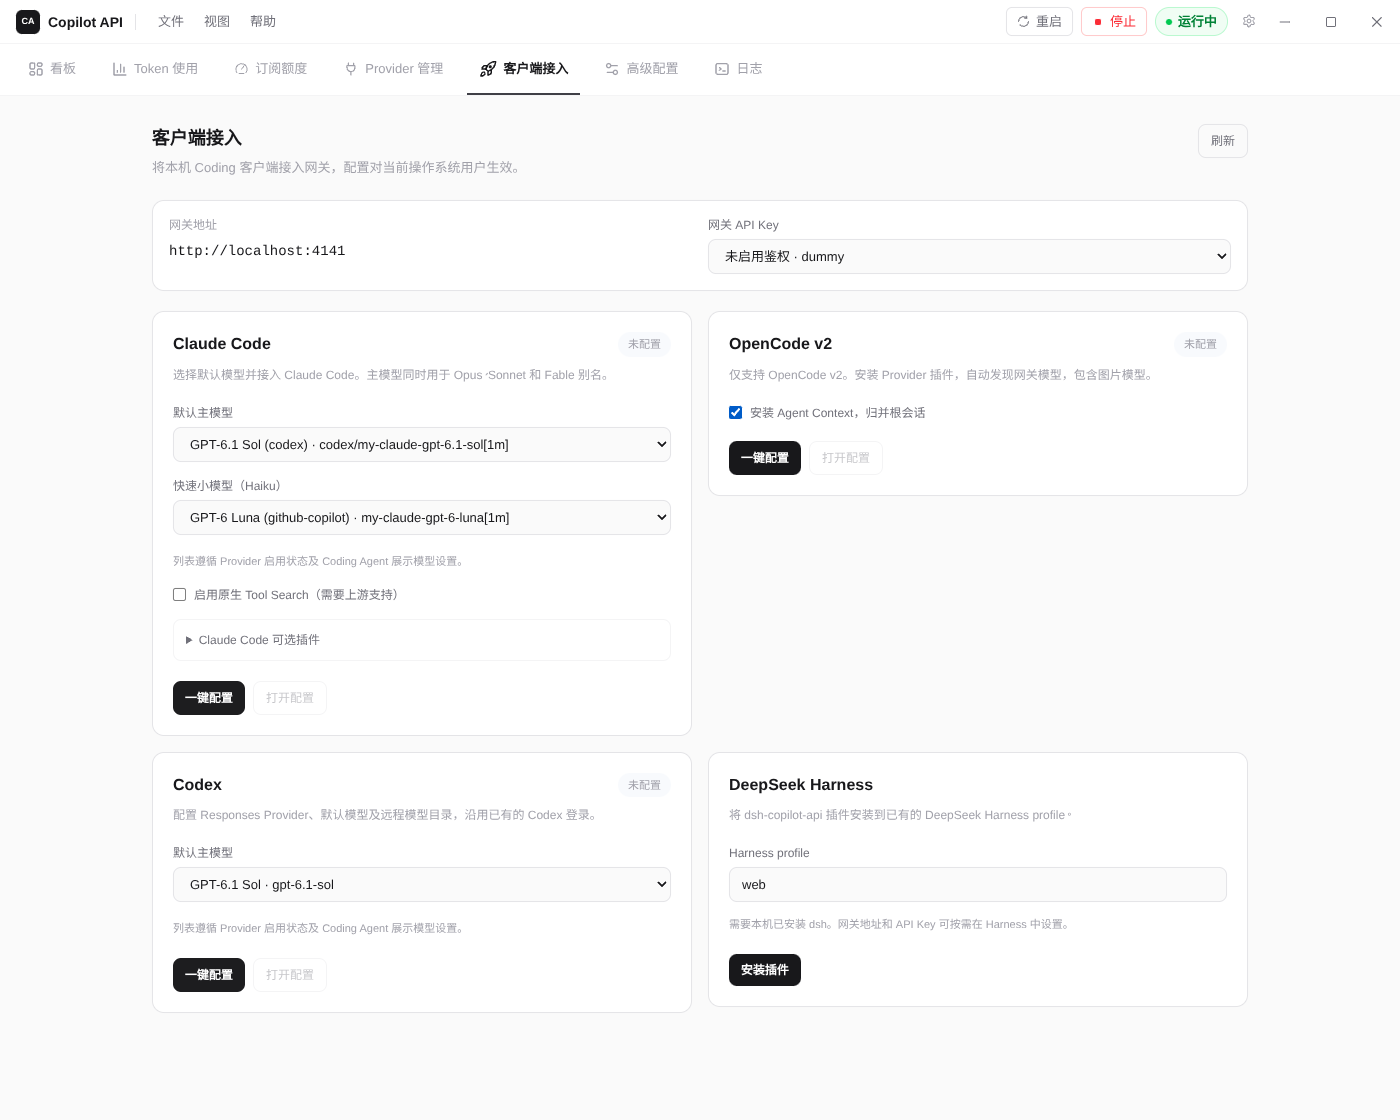
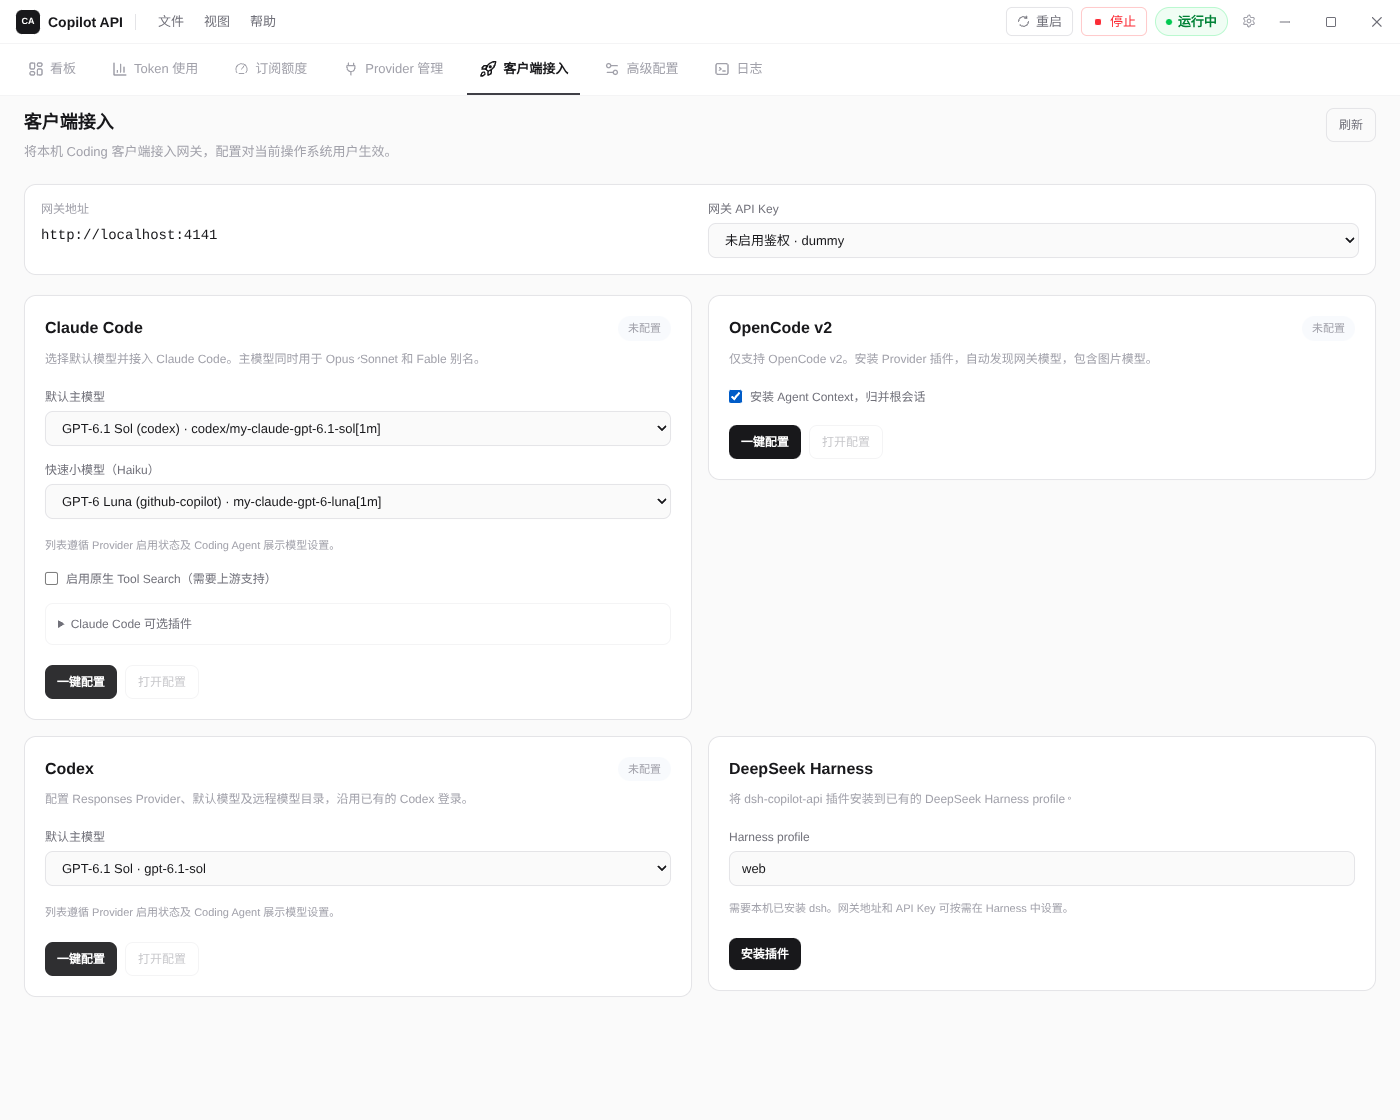
fix(desktop): align client page padding with providers

diff --git a/desktop/src/pages/ClientIntegrationsPage.tsx b/desktop/src/pages/ClientIntegrationsPage.tsx
@@ -99,7 +99,7 @@ export default function ClientIntegrationsPage({
     )
 
   return (
-    <div className="mx-auto max-w-6xl space-y-5 p-5 lg:p-7">
+    <div className="w-full space-y-5 px-5 pb-5 pt-3 sm:px-6 sm:pb-6">
       <div className="flex items-start justify-between gap-4">
         <div>
           <h2 className="text-lg font-semibold text-ink">
